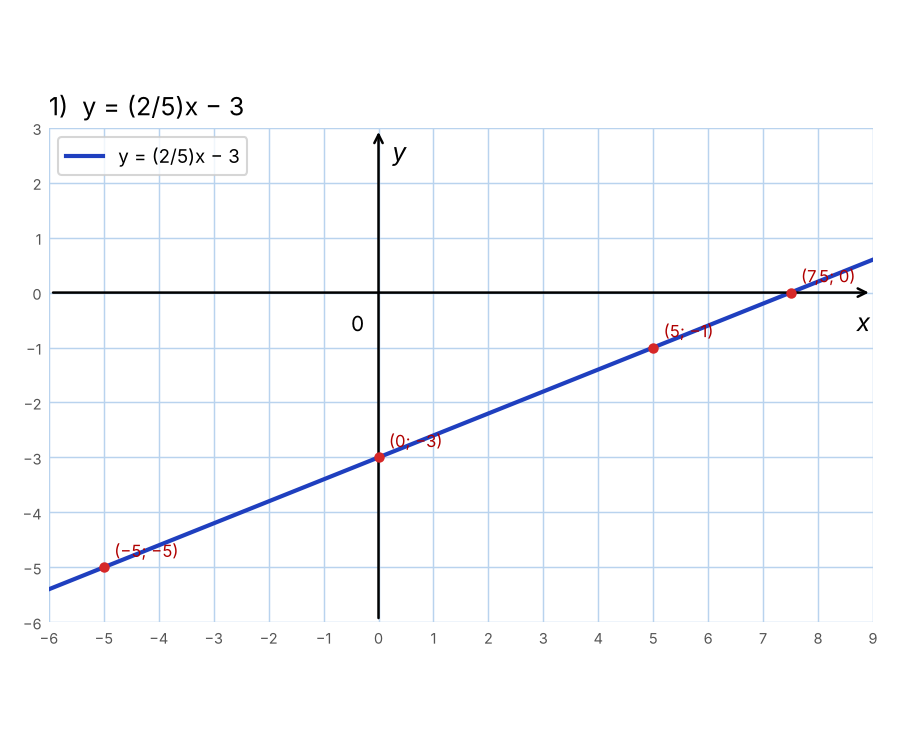
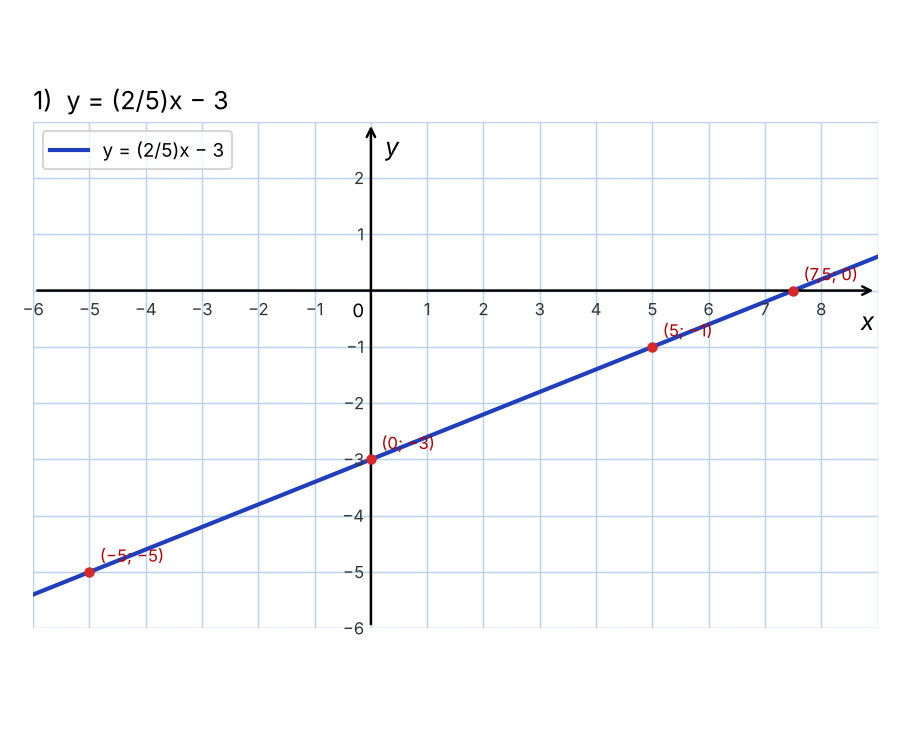
Put axis numbers directly on the axes
Claude-Session: https://claude.ai/code/session_01VKDUkjHS4CG9wXXMQ6J48D

diff --git a/grafiky/plot.py b/grafiky/plot.py
@@ -10,12 +10,16 @@ def axes(ax, xr, yr, title):
     ax.set_yticks(np.arange(np.ceil(yr[0]), yr[1] + 1e-9, 1))
     ax.grid(True, color="#b9d3ee", lw=0.7)
     for s in ax.spines.values(): s.set_visible(False)
-    ax.tick_params(length=0, labelsize=7, labelcolor="#555")
+    ax.tick_params(length=0, labelbottom=False, labelleft=False)
+    for i in range(int(np.ceil(xr[0])), int(np.floor(xr[1] - 0.5)) + 1):
+        if i: ax.text(i, -0.15, str(i).replace("-", "−"), ha="center", va="top", fontsize=8, color="#333")
+    for j in range(int(np.ceil(yr[0])), int(np.floor(yr[1] - 0.5)) + 1):
+        if j: ax.text(-0.12, j, str(j).replace("-", "−"), ha="right", va="center", fontsize=8, color="#333")
     ax.annotate("", xy=(xr[1], 0), xytext=(xr[0], 0), arrowprops=dict(arrowstyle="->", lw=1.2))
     ax.annotate("", xy=(0, yr[1]), xytext=(0, yr[0]), arrowprops=dict(arrowstyle="->", lw=1.2))
     ax.text(xr[1] - 0.3, -0.7, "x", fontsize=12, style="italic")
     ax.text(0.25, yr[1] - 0.6, "y", fontsize=12, style="italic")
-    ax.text(-0.5, -0.7, "0", fontsize=10)
+    ax.text(-0.12, -0.15, "0", ha="right", va="top", fontsize=9)
     ax.set_title(title, fontsize=12, loc="left")
 
 def pts(ax, P):
